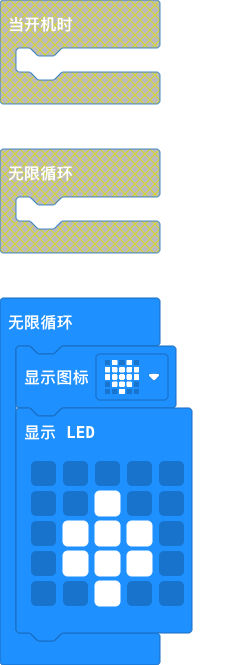
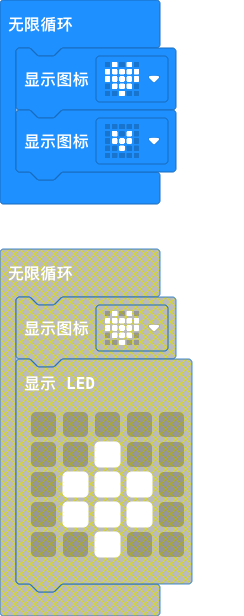
更新 main.blocks, main.ts

diff --git a/main.ts b/main.ts
@@ -1,10 +1,4 @@
 basic.forever(function () {
     basic.showIcon(IconNames.Heart)
-    basic.showLeds(`
-        . . . . .
-        . . # . .
-        . # # # .
-        . # # # .
-        . . # . .
-        `)
+    basic.showIcon(IconNames.SmallHeart)
 })
